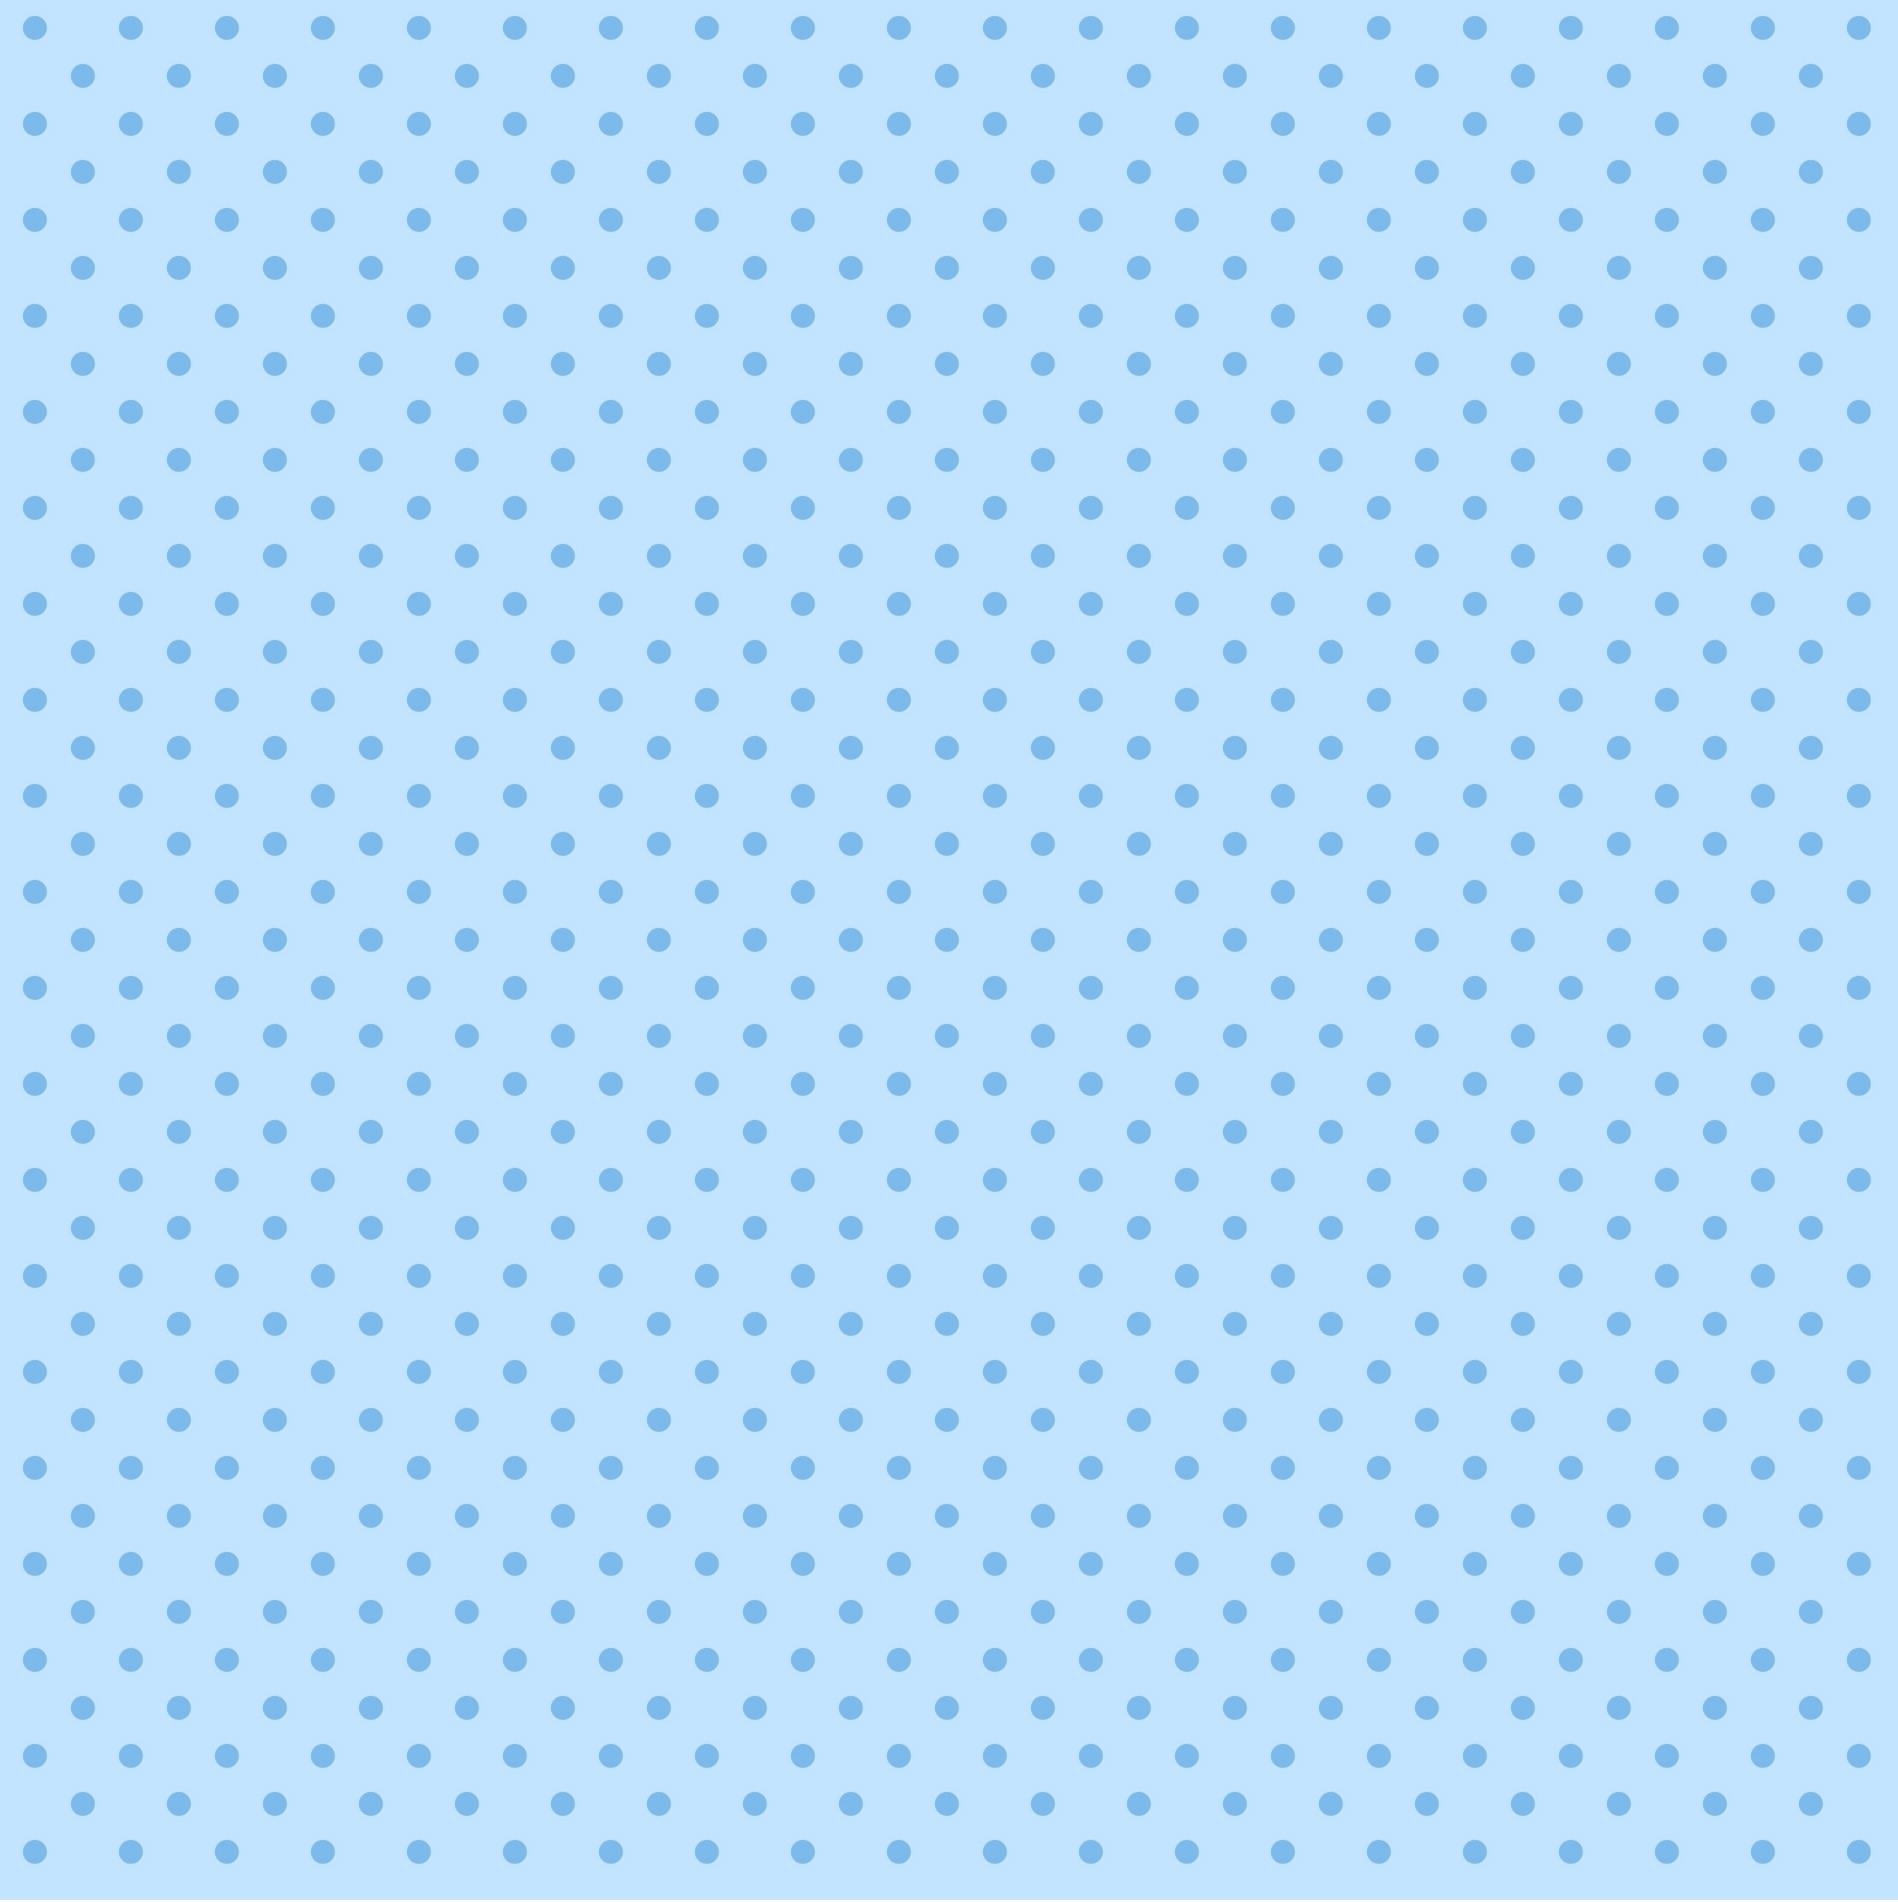
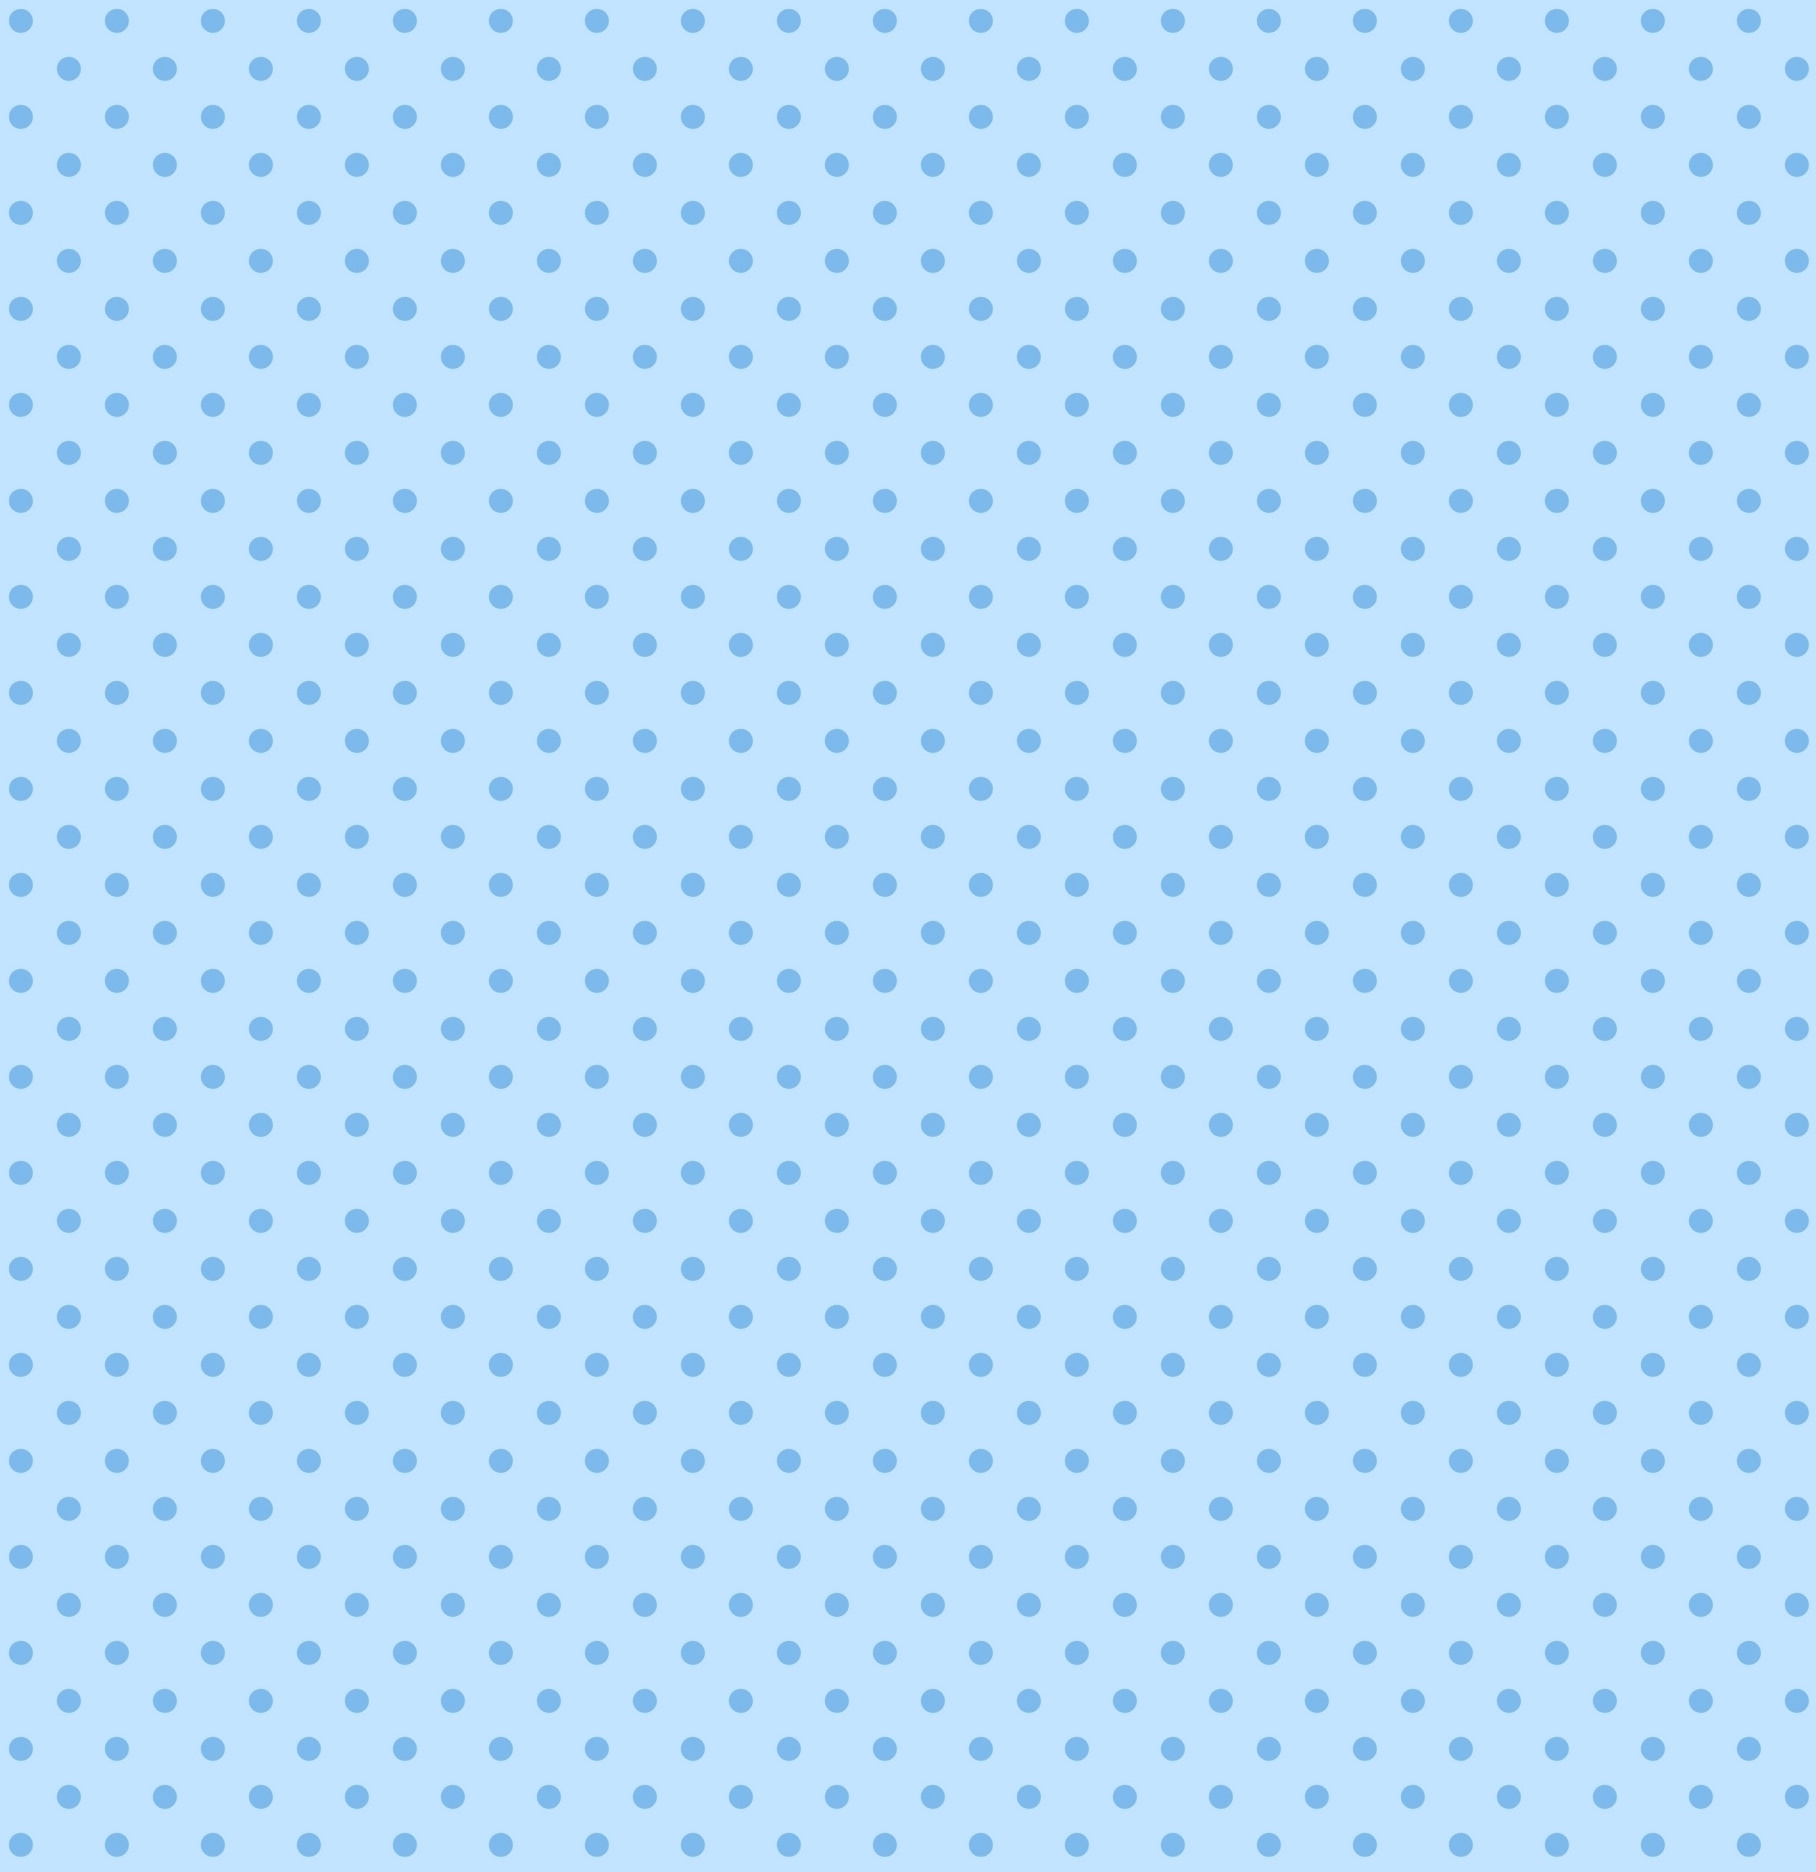
slideshow updates

diff --git a/assets/css/style.scss b/assets/css/style.scss
@@ -5,6 +5,8 @@
 
 .wrapper {
 	padding: 0px;
+	background: url(../../img/background-8.jpg);
+	background-size: 70%;
 }
 
 body {
@@ -39,9 +41,15 @@ h2 {
 	color: #1B6EC1;
 }
 
-h3 {
-	margin: 10px;
+h3{
 	font-size:22px;
+	margin: 6px;
+}
+
+.view {
+	margin: 6px;
+	font-size:22px;
+
 }
 
 img {
@@ -54,6 +62,7 @@ p {
 }
 
 a {
+	//color: #F1722D;
 	color:#1B6EC1;
 }
 
@@ -88,9 +97,17 @@ a:hover {
 	width: 130px;
 	float: left;
 	text-align: center;
-	background: white;
-	-moz-border-radius: 5px;
-	border-radius: 5px;
+	background: #fff;//#FED675;//#FFED95;////#FFB871;
+	border-color: #f96705;
+	border-width: 7px;
+	border-style: solid;
+	-moz-border-radius: 10px;
+	border-radius: 10px;
+	line-height: 1.5;
+	-moz-box-shadow: 0px 0px 5px #666;
+	-webkit-box-shadow: 0px 0px 5px #666;
+  	box-shadow: 0px 0px 5px #666;
+
 }
 
 header ul {

diff --git a/_slides/my-pics1.md b/_slides/my-pics1.md
@@ -4,26 +4,25 @@ title: My slideshow
 item: 1
 auto: true
 loop: true
-autoWidth: true
 ---
 
 * ![A nice pic of mine](my-pics1/pic0.jpg)
 * ![A nice pic of mine](my-pics1/pic1.jpg)
 * ![Another nice pic of mine](my-pics1/pic2.jpg)
 * ![Another nice pic of mine](my-pics1/pic3.jpg)
+* ![Another nice pic of mine](my-pics1/pic13.jpeg)
 * ![Another nice pic of mine](my-pics1/pic4.jpg)
 * ![Another nice pic of mine](my-pics1/pic5.jpg)
+* ![Another nice pic of mine](my-pics1/pic15.jpg)
+* ![Another nice pic of mine](my-pics1/pic9.jpg)
 * ![Another nice pic of mine](my-pics1/pic6.jpg)
 * ![Another nice pic of mine](my-pics1/pic7.jpg)
 * ![Another nice pic of mine](my-pics1/pic8.jpg)
 * ![Another nice pic of mine](my-pics1/pic8a.jpg)
-* ![Another nice pic of mine](my-pics1/pic9.jpg)
-* ![Another nice pic of mine](my-pics1/pic10.jpg)
 * ![Another nice pic of mine](my-pics1/pic11.jpg)
 * ![Another nice pic of mine](my-pics1/pic12.jpg)
-* ![Another nice pic of mine](my-pics1/pic13.jpeg)
 * ![Another nice pic of mine](my-pics1/pic14.jpg)
-* ![Another nice pic of mine](my-pics1/pic15.jpg)
 * ![Another nice pic of mine](my-pics1/pic16.jpg)
+* ![Another nice pic of mine](my-pics1/pic10.jpg)
 
 

diff --git a/photos.md b/photos.md
@@ -8,5 +8,5 @@ title: Photos
 
 ----
 <p align="center">
-<iframe src="https://micah-cecilia.github.io/slides/my-pics1.html" width="600px" height="550px" style="border: none; text-align: center;"></iframe>
+<iframe src="https://micah-cecilia.github.io/slides/my-pics1.html" width="600px" height="580px" style="border: none; text-align: center;"></iframe>
 </p>
